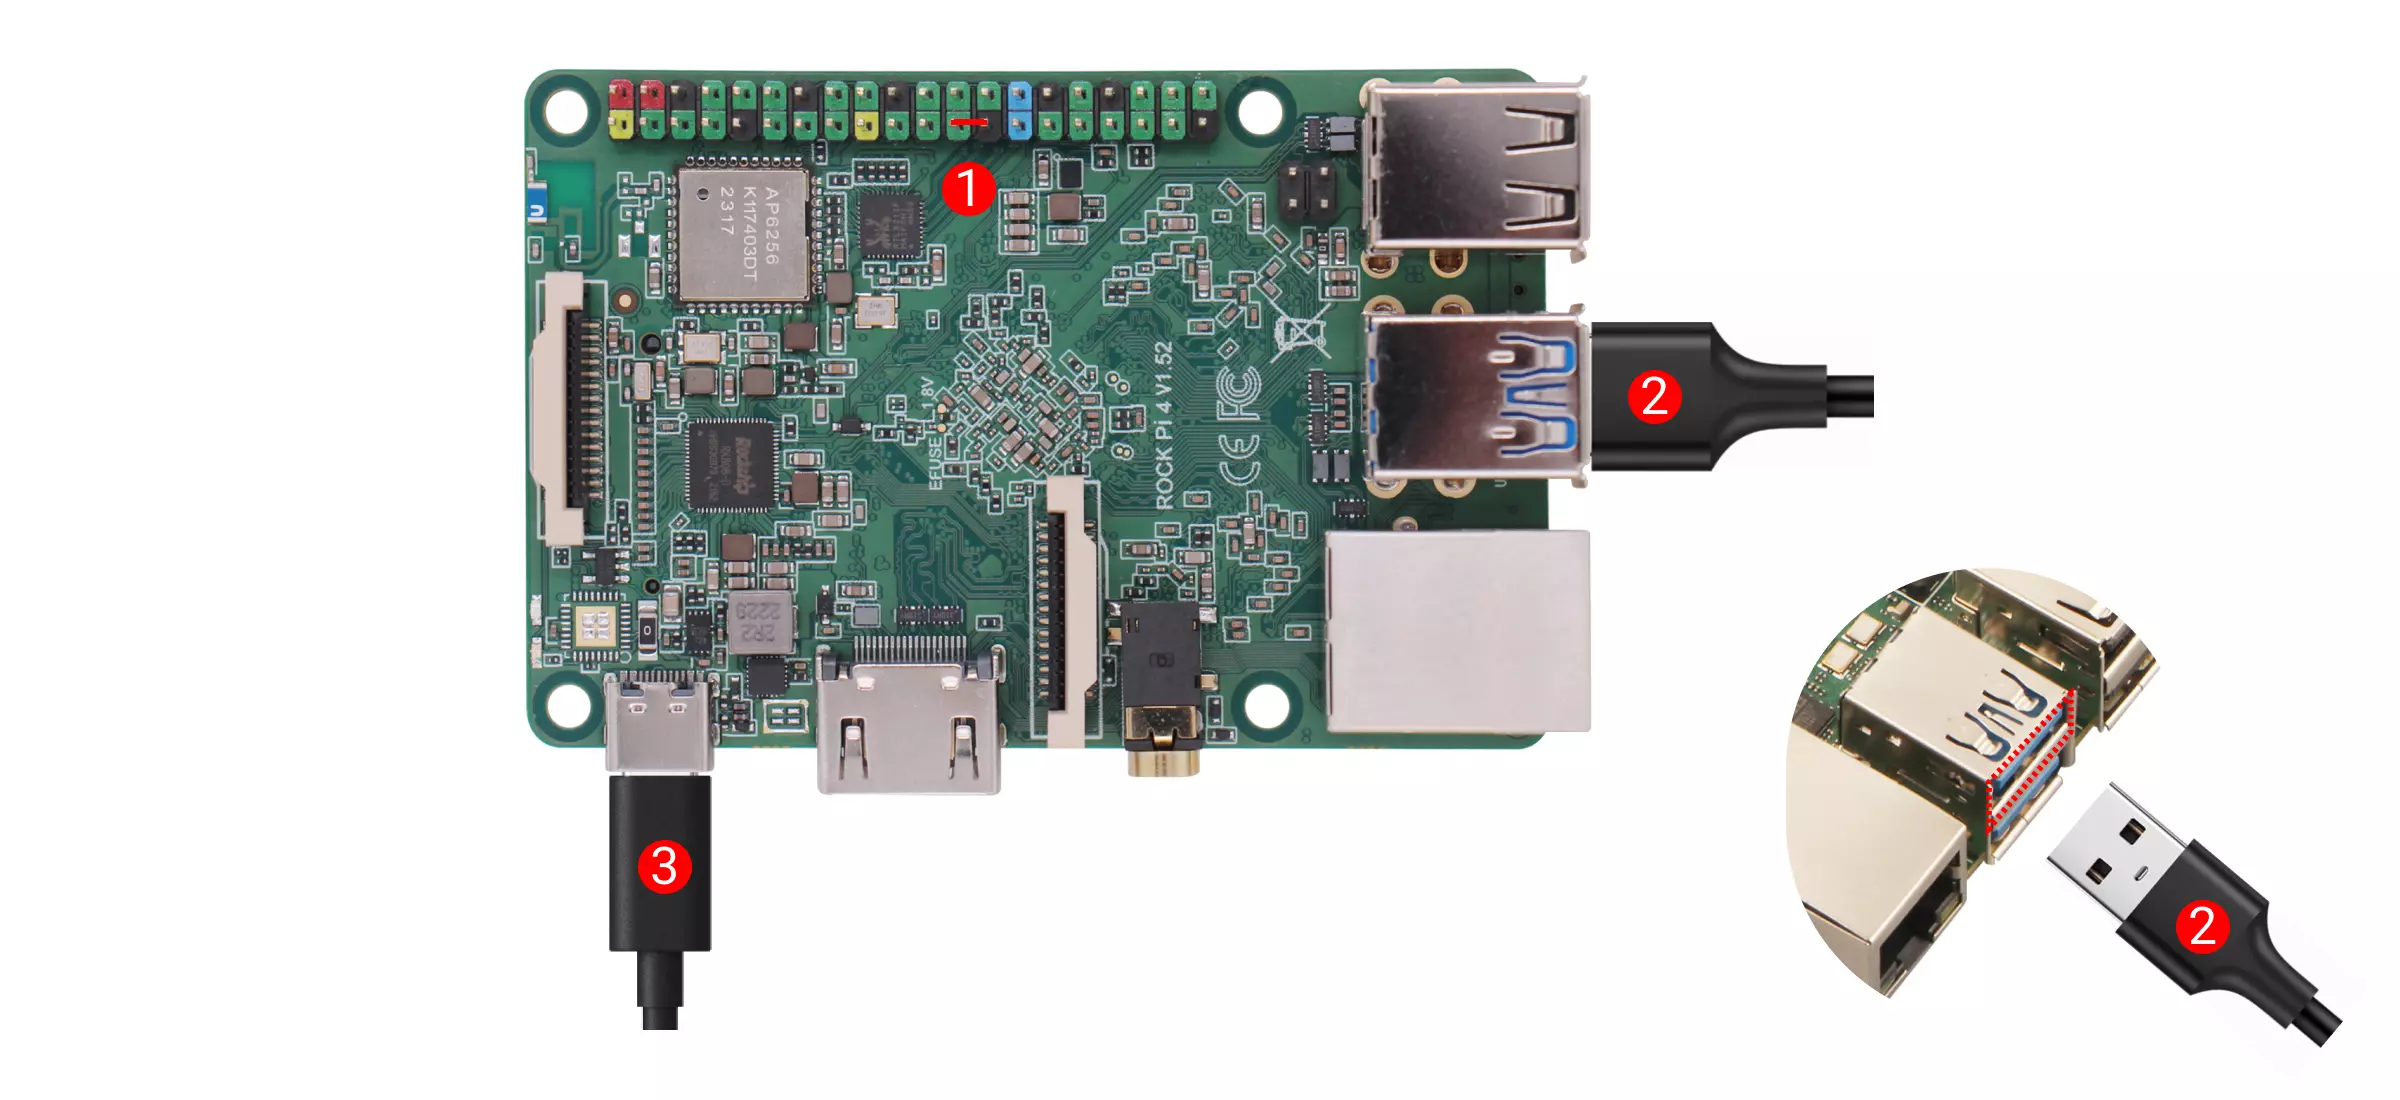
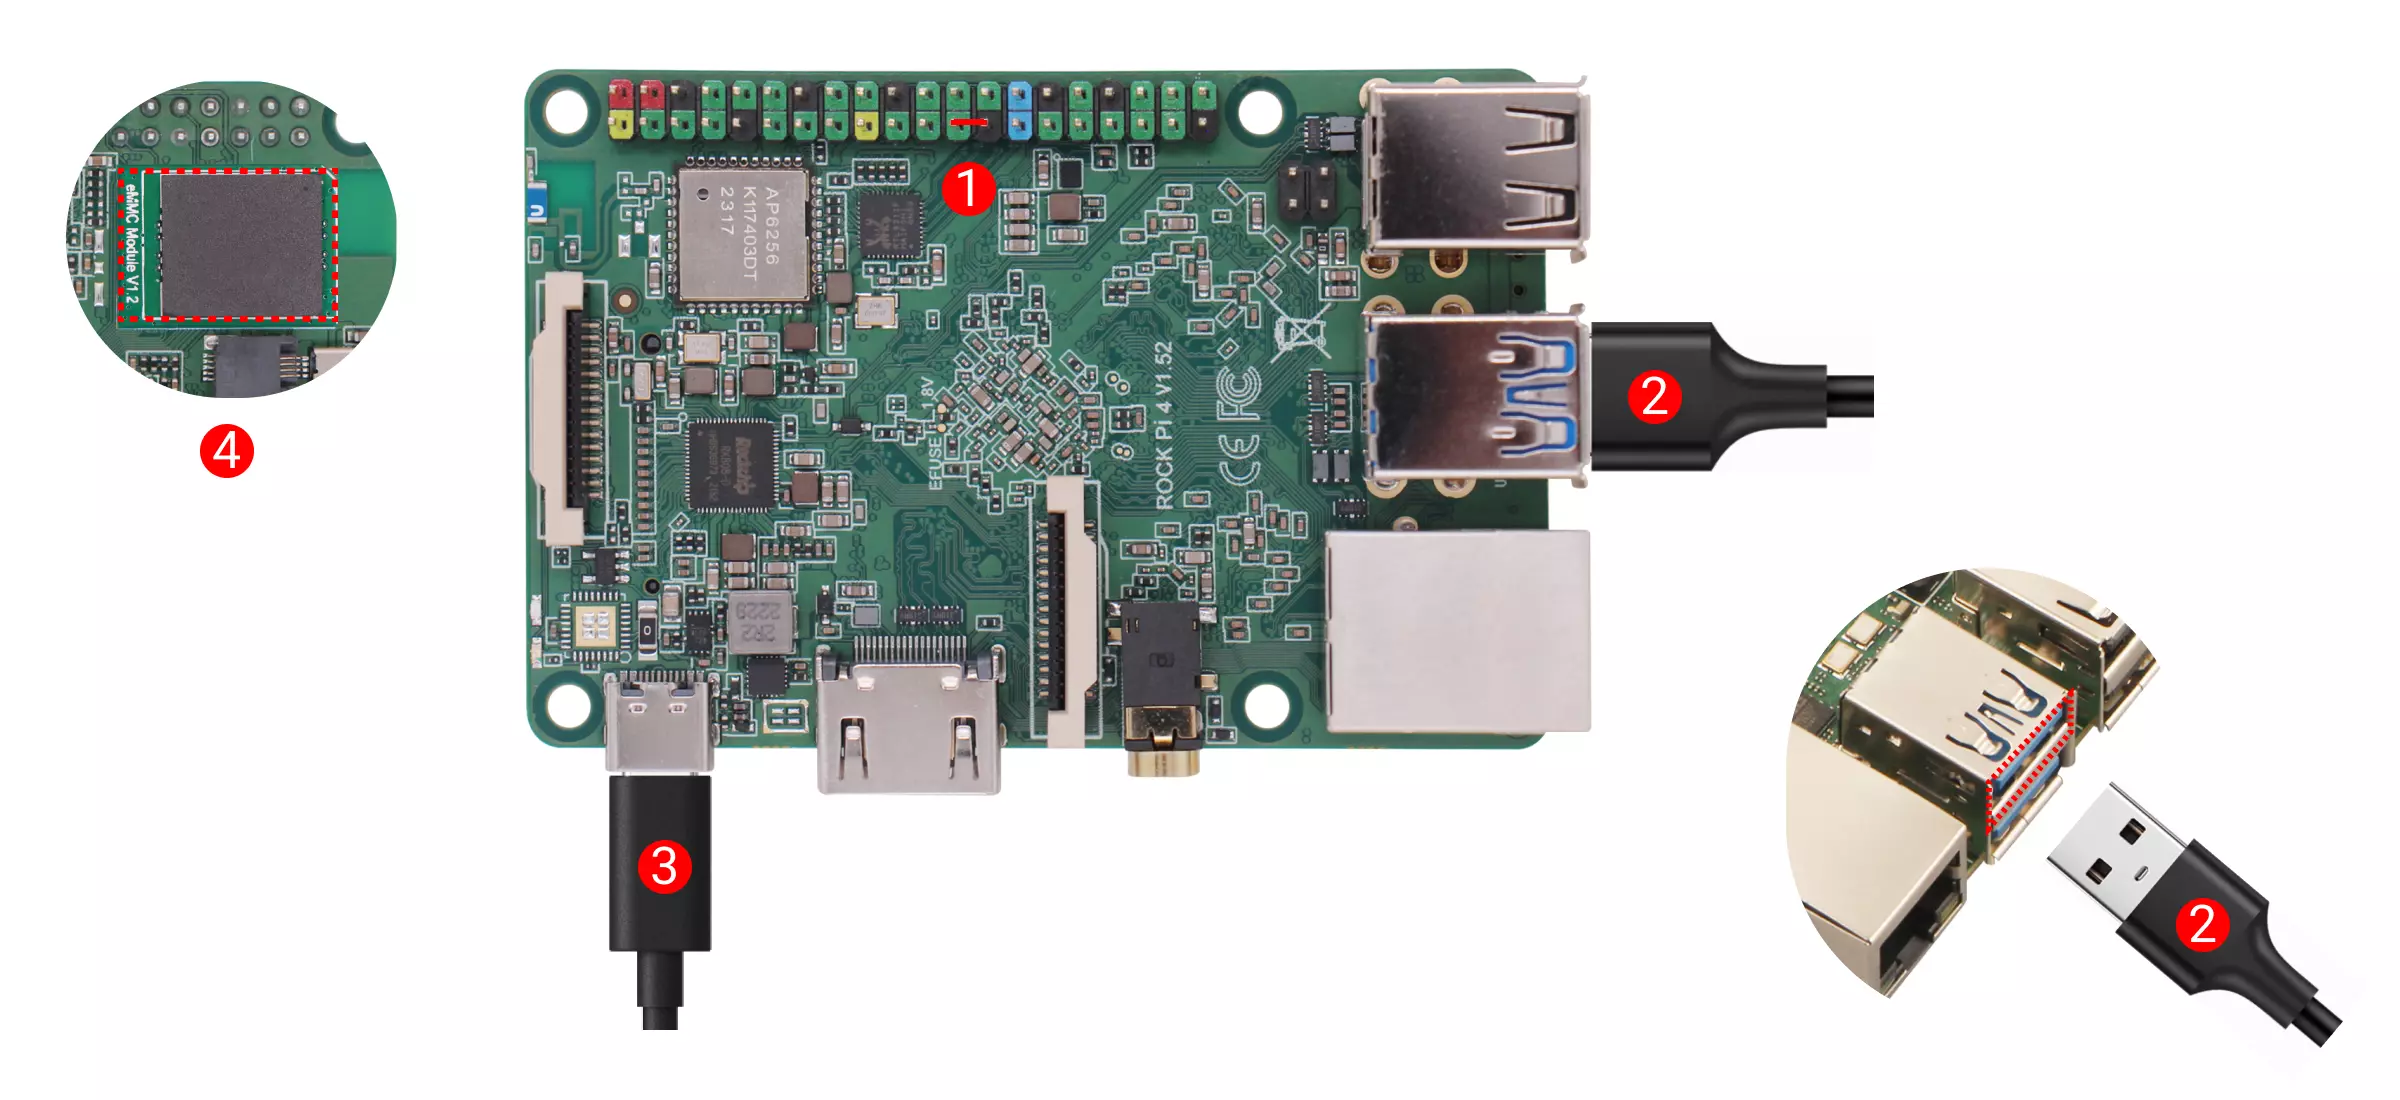
fix: optimize rock4 series enter maskrom mode step

Changed region(s): [[0.0, 0.0618, 0.1875, 0.4327], [0.9062, 0.8036, 0.9375, 0.8655]]

diff --git a/docs/rock4/rock4ab-se/low-level-dev/maskrom/linux.md b/docs/rock4/rock4ab-se/low-level-dev/maskrom/linux.md
@@ -15,7 +15,7 @@ import Rkdeveloptool from "../../../../common/dev/\_rkdeveloptoolV2.mdx";
 
 <Tabs queryString="model">
 
-    <TabItem value="板载 eMMC 的">
+    <TabItem value="板载 eMMC">
 
 断开主板电源，取下 MicroSD 卡。
 
@@ -35,7 +35,7 @@ import Rkdeveloptool from "../../../../common/dev/\_rkdeveloptoolV2.mdx";
 
     </TabItem>
 
-    <TabItem value="无板载 eMMC 的">
+    <TabItem value="无板载 eMMC">
 
 断开主板电源，移除可启动系统介质（如 MicroSD 卡和 eMMC 模块等）。
 
@@ -46,6 +46,8 @@ import Rkdeveloptool from "../../../../common/dev/\_rkdeveloptoolV2.mdx";
 ② 使用 USB Type-A 转 USB Type-A 数据线连接主板和电脑
 
 ③ 使用电源适配器给主板供电
+
+④ 安装 eMMC 模块
 
 <img src="/img/rock4/rock4-maskrom-no-board-emmc.webp" alt="rock 4 with no button maskrom wire" style={{ width: "80%" }} />
 

diff --git a/docs/rock4/rock4ab-se/low-level-dev/maskrom/macos.md b/docs/rock4/rock4ab-se/low-level-dev/maskrom/macos.md
@@ -15,7 +15,7 @@ import Rkdeveloptool from "../../../../common/dev/\_rkdeveloptoolV2.mdx";
 
 <Tabs queryString="model">
 
-    <TabItem value="板载 eMMC 的">
+    <TabItem value="板载 eMMC">
 
 断开主板电源，取下 MicroSD 卡。
 
@@ -35,7 +35,7 @@ import Rkdeveloptool from "../../../../common/dev/\_rkdeveloptoolV2.mdx";
 
     </TabItem>
 
-    <TabItem value="无板载 eMMC 的">
+    <TabItem value="无板载 eMMC">
 
 断开主板电源，移除可启动系统介质（如 MicroSD 卡和 eMMC 模块等）。
 
@@ -46,6 +46,8 @@ import Rkdeveloptool from "../../../../common/dev/\_rkdeveloptoolV2.mdx";
 ② 使用 USB Type-A 转 USB Type-A 数据线连接主板和电脑
 
 ③ 使用电源适配器给主板供电
+
+④ 安装 eMMC 模块
 
 <img src="/img/rock4/rock4-maskrom-no-board-emmc.webp" alt="rock 4 with no button maskrom wire" style={{ width: "80%" }} />
 

diff --git a/docs/rock4/rock4ab-se/low-level-dev/maskrom/windows.md b/docs/rock4/rock4ab-se/low-level-dev/maskrom/windows.md
@@ -17,7 +17,7 @@ import Rkdevtool from "../../../../common/dev/\_rkdevtoolV2.mdx";
 
 <Tabs queryString="model">
 
-    <TabItem value="板载 eMMC 的">
+    <TabItem value="板载 eMMC">
 
 断开主板电源，取下 MicroSD 卡。
 
@@ -37,7 +37,7 @@ import Rkdevtool from "../../../../common/dev/\_rkdevtoolV2.mdx";
 
     </TabItem>
 
-    <TabItem value="无板载 eMMC 的">
+    <TabItem value="无板载 eMMC">
 
 断开主板电源，移除可启动系统介质（如 MicroSD 卡和 eMMC 模块等）。
 

diff --git a/docs/rock4/rock4ab-se/low-level-dev/maskrom/erase.md b/docs/rock4/rock4ab-se/low-level-dev/maskrom/erase.md
@@ -11,7 +11,7 @@ import ERASE from "../../../../common/dev/\_erase-spi-emmc.mdx";
 
 <Tabs queryString="model">
 
-    <TabItem value="板载 eMMC 的">
+    <TabItem value="板载 eMMC">
 
 断开主板电源，取下 MicroSD 卡。
 
@@ -31,7 +31,7 @@ import ERASE from "../../../../common/dev/\_erase-spi-emmc.mdx";
 
     </TabItem>
 
-    <TabItem value="无板载 eMMC 的">
+    <TabItem value="无板载 eMMC">
 
 断开主板电源，移除可启动系统介质（如 MicroSD 卡和 eMMC 模块等）。
 

diff --git a/i18n/en/docusaurus-plugin-content-docs/current/rock4/rock4ab-se/low-level-dev/maskrom/linux.md b/i18n/en/docusaurus-plugin-content-docs/current/rock4/rock4ab-se/low-level-dev/maskrom/linux.md
@@ -47,6 +47,8 @@ Detailed steps:
 
 ③ Power the board using the power adapter
 
+④ Install the eMMC module
+
 <img src="/en/img/rock4/rock4-maskrom-no-board-emmc.webp" alt="rock 4 with no button maskrom wire" style={{ width: "80%" }} />
 
     </TabItem>

diff --git a/i18n/en/docusaurus-plugin-content-docs/current/rock4/rock4ab-se/low-level-dev/maskrom/macos.md b/i18n/en/docusaurus-plugin-content-docs/current/rock4/rock4ab-se/low-level-dev/maskrom/macos.md
@@ -47,6 +47,8 @@ Detailed steps:
 
 ③ Power the board using the power adapter
 
+④ Install the eMMC module
+
 <img src="/en/img/rock4/rock4-maskrom-no-board-emmc.webp" alt="rock 4 with no button maskrom wire" style={{ width: "80%" }} />
 
     </TabItem>
